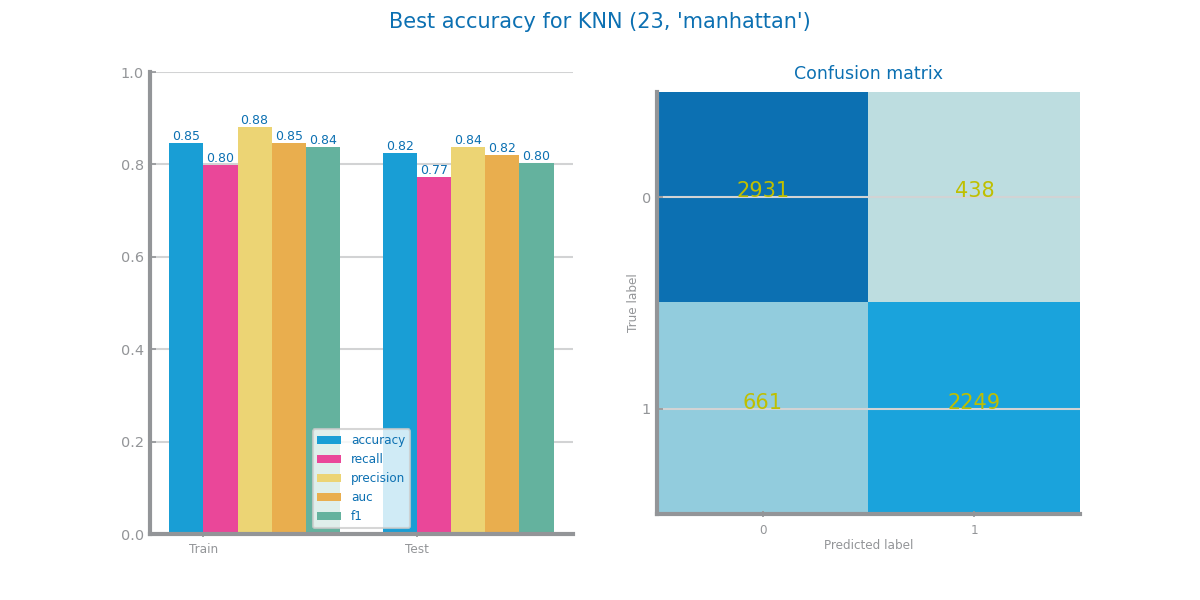
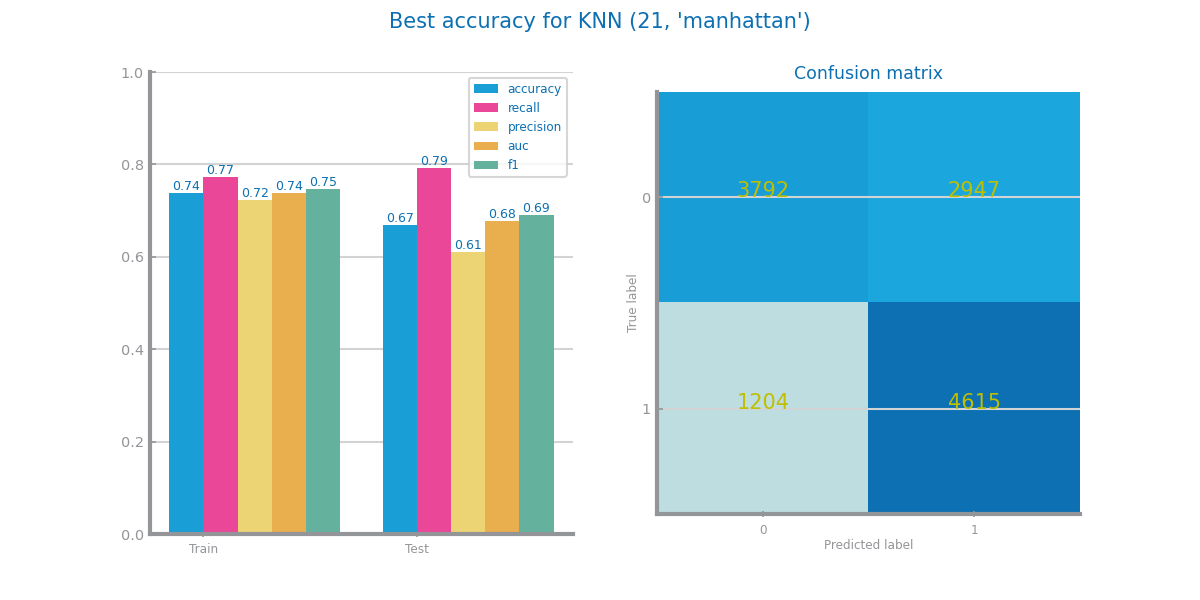
Fix: change old images

Changed region(s): [[0.5242, 0.15, 0.925, 0.87], [0.1233, 0.12, 0.4933, 0.42], [0.2467, 0.69, 0.37, 0.9]]

diff --git a/labs/lab4/knn/knn.py b/labs/lab4/knn/knn.py
@@ -44,16 +44,16 @@ def knn_study(
 
     return best_model, best_params
 
-file_tag = 'traffic'
-train_filename = '../../../../traffic_final_train.csv'
-test_filename = '../../../../traffic_final_test.csv'
-target = 'crash_type'
-#file_tag = "cflights"
-#train_filename = '../../../../cflights_train.csv'
-#test_filename = '../../../../cflights_test.csv'
-#target = "Cancelled"
+#file_tag = 'traffic'
+#train_filename = '../traffic_train.csv'
+#test_filename = '../traffic_test.csv'
+#target = 'crash_type'
+file_tag = "cflights"
+train_filename = '../cflights_train.csv'
+test_filename = '../cflights_test.csv'
+target = "Cancelled"
 eval_metric = 'accuracy'
-sample_frac: float = 0.1  # fraction of data to use (0 < sample_frac <= 1]
+sample_frac: float = 0.01  # fraction of data to use (0 < sample_frac <= 1]
 
 trnX, tstX, trnY, tstY, labels, vars = read_train_test_from_files(train_filename, test_filename, target)
 
